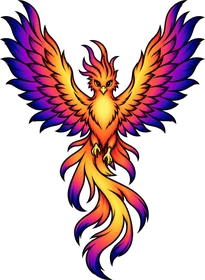
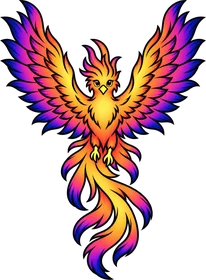
Replace Wildfire mascot with correct artwork
Claude-Session: https://claude.ai/code/session_01G1mC767fAsTeDZ3x343AHq

diff --git a/class-information/programs.html b/class-information/programs.html
@@ -47,7 +47,7 @@
 <p><a href="/class-information/recital-information">About recitals</a></p></div>
 <div class="panel"><h3>Teams are a commitment</h3><p>Team dancers commit to the full season, including outside rehearsals, extra performances and additional costs. Each team has required classes, and we encourage competition dancers to take every style since convention classes cover them all.</p><p>We look for events within about four hours of Red Bluff. They usually run a full weekend, sometimes starting Thursday or Friday night. Team dancers are ambassadors for Flare: kind, helpful, prepared and positive.</p><p style="margin:0"><a href="sms:+15302554180">Text us about auditions</a></p></div>
 </div></section>
-<section><div class="wrap"><h2>Our teams</h2><div class="team"><div class="team-tag"><img class="team-mascot" src="/images/mascots/glow.webp" alt="Glow mascot" width="260" height="280" loading="lazy">Team Glow<span>Local team</span></div><div><p>Perfect for dancers who want more stage time without traveling. Glow performs at local events like Spooktacular, the Children&rsquo;s Christmas Festival and Tough Enough to Wear Pink. Dancers learn what it means to be part of a team, gain stage experience and grow their confidence.</p></div></div><div class="team"><div class="team-tag"><img class="team-mascot" src="/images/mascots/ember.webp" alt="Ember mascot" width="275" height="280" loading="lazy">Team Ember<span>Traveling, non-competitive</span></div><div><p>A way to dip your toes into competition life. Ember dancers attend one out-of-town event for a weekend of convention classes with master choreographers, cheer on teammates and watch other studios compete, without the pressure of competing themselves.</p></div></div><div class="team"><div class="team-tag"><img class="team-mascot" src="/images/mascots/wildfire.webp" alt="Wildfire mascot" width="205" height="280" loading="lazy">Team Wildfire<span>Adaptive inclusive team</span></div><div><p>Designed to be inclusive and supportive of dancers with disabilities, neurodivergence, learning differences, medical needs, or any circumstance that calls for individualized adaptations. Like Ember, one out-of-town event is required and others are optional.</p></div></div><div class="team"><div class="team-tag"><img class="team-mascot" src="/images/mascots/spark.webp" alt="Spark mascot" width="200" height="280" loading="lazy">Team Spark<span>Pre-team</span></div><div><p>The bridge between Ember and Blaze. Spark dancers attend one out-of-town event and compete one dance there, with the option to add more if available. We encourage them to attend more events for convention classes and to cheer on teammates.</p></div></div><div class="team"><div class="team-tag"><img class="team-mascot" src="/images/mascots/blaze.webp" alt="Blaze mascot" width="209" height="280" loading="lazy">Team Blaze<span>Full competitive team</span></div><div><p>Our team with the most commitment. Blaze dancers attend all local and competitive events, perform at least two routines with the option to add a solo or more group routines, and meet a class requirement at Flare. They&rsquo;re held to a high standard as leaders at the studio and at events.</p></div></div></div></section>
+<section><div class="wrap"><h2>Our teams</h2><div class="team"><div class="team-tag"><img class="team-mascot" src="/images/mascots/glow.webp" alt="Glow mascot" width="260" height="280" loading="lazy">Team Glow<span>Local team</span></div><div><p>Perfect for dancers who want more stage time without traveling. Glow performs at local events like Spooktacular, the Children&rsquo;s Christmas Festival and Tough Enough to Wear Pink. Dancers learn what it means to be part of a team, gain stage experience and grow their confidence.</p></div></div><div class="team"><div class="team-tag"><img class="team-mascot" src="/images/mascots/ember.webp" alt="Ember mascot" width="275" height="280" loading="lazy">Team Ember<span>Traveling, non-competitive</span></div><div><p>A way to dip your toes into competition life. Ember dancers attend one out-of-town event for a weekend of convention classes with master choreographers, cheer on teammates and watch other studios compete, without the pressure of competing themselves.</p></div></div><div class="team"><div class="team-tag"><img class="team-mascot" src="/images/mascots/wildfire.webp" alt="Wildfire mascot" width="206" height="280" loading="lazy">Team Wildfire<span>Adaptive inclusive team</span></div><div><p>Designed to be inclusive and supportive of dancers with disabilities, neurodivergence, learning differences, medical needs, or any circumstance that calls for individualized adaptations. Like Ember, one out-of-town event is required and others are optional.</p></div></div><div class="team"><div class="team-tag"><img class="team-mascot" src="/images/mascots/spark.webp" alt="Spark mascot" width="200" height="280" loading="lazy">Team Spark<span>Pre-team</span></div><div><p>The bridge between Ember and Blaze. Spark dancers attend one out-of-town event and compete one dance there, with the option to add more if available. We encourage them to attend more events for convention classes and to cheer on teammates.</p></div></div><div class="team"><div class="team-tag"><img class="team-mascot" src="/images/mascots/blaze.webp" alt="Blaze mascot" width="209" height="280" loading="lazy">Team Blaze<span>Full competitive team</span></div><div><p>Our team with the most commitment. Blaze dancers attend all local and competitive events, perform at least two routines with the option to add a solo or more group routines, and meet a class requirement at Flare. They&rsquo;re held to a high standard as leaders at the studio and at events.</p></div></div></div></section>
 <section class="dark cta-band"><div class="wrap"><div><h2>Interested in a team or semester classes?</h2><p class="muted" style="margin:10px 0 0">Tell us about your dancer and we&rsquo;ll help you choose.</p></div>
 <div class="actions"><a class="btn btn-primary" style="background:#fff;color:var(--plum);border-color:#fff" href="/contact-us#try-a-class">Get started</a><a class="btn btn-ghost" style="color:#fff;border-color:#fff" href="sms:+15302554180">Text us</a></div></div></section>
 </main>
